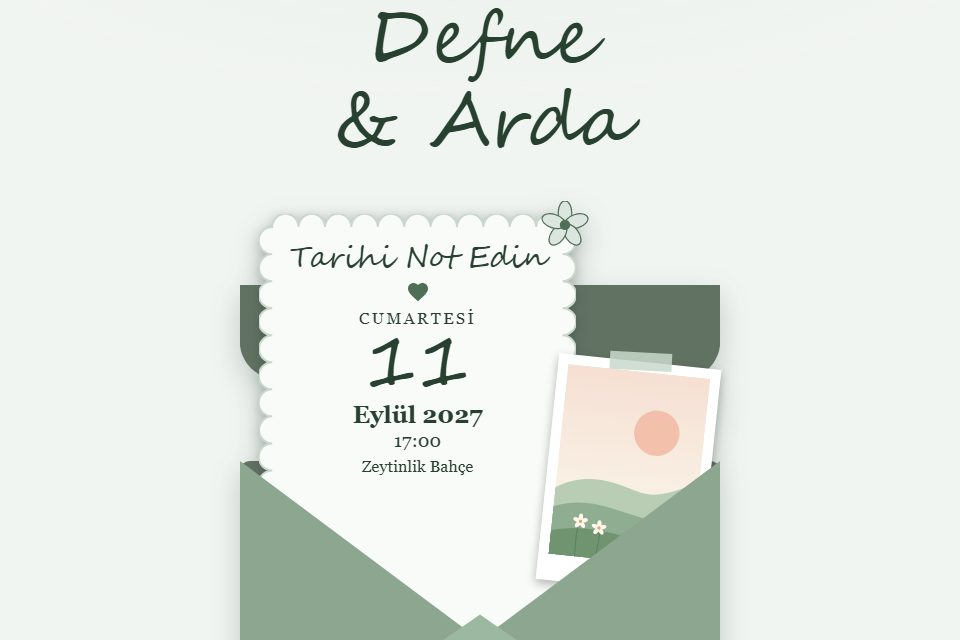
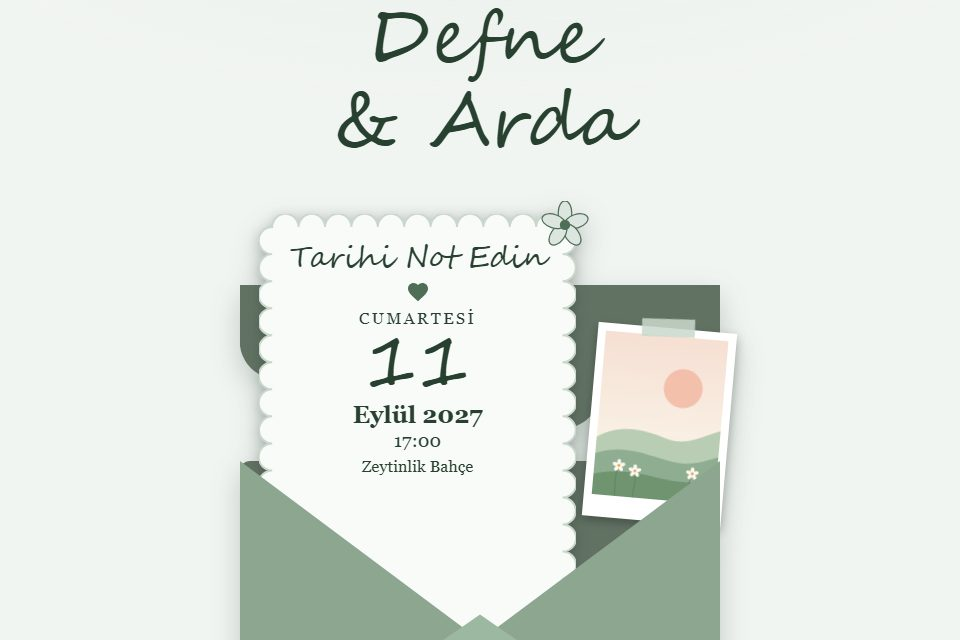
fix(web): use the generated accentColor type and clear the zarf photo print from the card
Drops the local DraftContentWithAccent in favour of the generated DraftContentInput,
and shrinks/offsets the photo print so the Save-the-Date text stays clear at 360-1280px.

Changed region(s): [[0.5625, 0.5, 0.7812, 0.9062], [0.5625, 0.9062, 0.5938, 0.9375]]

diff --git a/src/web/src/features/invitations/draftModel.ts b/src/web/src/features/invitations/draftModel.ts
@@ -1,11 +1,11 @@
 import type {
+  DraftContentInput,
   DraftProgramItemInput,
   InvitationDraftDetails,
   InvitationContactInput,
   InvitationFaqInput,
   InvitationTransportStopInput,
 } from '../../api/generated/client'
-import type { DraftContentWithAccent } from '../templates/rendering/zarfAccent'
 
 export const eventTypes = [
   { value: 'dugun', label: 'Düğün' },
@@ -58,7 +58,7 @@ export const emptyEditableDraft: EditableDraftContent = {
   accentColor: '',
 }
 
-export function toEditableDraft(content: DraftContentWithAccent): EditableDraftContent {
+export function toEditableDraft(content: DraftContentInput): EditableDraftContent {
   const programItems = (content.programItems ?? []).filter(
     (item): item is DraftProgramItemInput => item !== null,
   )
@@ -82,7 +82,7 @@ export function toEditableDraft(content: DraftContentWithAccent): EditableDraftC
   }
 }
 
-export function toDraftContent(content: EditableDraftContent): DraftContentWithAccent {
+export function toDraftContent(content: EditableDraftContent): DraftContentInput {
   const hasVenue = Boolean(content.venueName.trim() || content.venueAddress.trim() || content.mapUrl.trim())
   const hasProgram = Boolean(
     content.programTitle.trim() || content.programDescription.trim() || content.programStartsAtLocal,

diff --git a/src/web/src/features/templates/rendering/zarf.css b/src/web/src/features/templates/rendering/zarf.css
@@ -150,14 +150,14 @@
 .zarf__photo {
   position: absolute;
   inset-block-start: 34%;
-  inset-inline-end: 2%;
+  inset-inline-end: -2%;
   z-index: 2;
-  width: 34%;
+  width: 29%;
   margin: 0;
   transform: rotate(0deg);
   transition: transform 0.9s cubic-bezier(0.3, 0.7, 0.2, 1) 0.6s;
 }
-.zarf--open .zarf__photo { transform: translateY(-92%) rotate(6deg); }
+.zarf--open .zarf__photo { transform: translateY(-125%) rotate(5deg); }
 .zarf__photo-frame {
   position: relative;
   padding: 6% 6% 16%;
@@ -175,7 +175,7 @@
   content: "";
   transform: translateX(-50%) rotate(-3deg);
 }
-.zarf__photo-frame img, .zarf__photo-placeholder { display: block; width: 100%; aspect-ratio: 3 / 4; object-fit: cover; }
+.zarf__photo-frame img, .zarf__photo-placeholder { display: block; width: 100%; height: auto; aspect-ratio: 3 / 4; object-fit: cover; }
 .zarf__photo-placeholder { display: grid; place-items: center; background: linear-gradient(160deg, color-mix(in srgb, var(--z-base) 45%, #fff), color-mix(in srgb, var(--z-base) 85%, #fff)); }
 .zarf__photo-placeholder svg { width: 38%; fill: color-mix(in srgb, var(--z-seal) 70%, #fff); }
 

diff --git a/src/web/src/features/templates/rendering/model.ts b/src/web/src/features/templates/rendering/model.ts
@@ -1,4 +1,5 @@
-import { resolveZarfAccent, type DraftContentWithAccent, type ZarfAccentKey } from './zarfAccent'
+import type { DraftContentInput } from '../../../api/generated/client'
+import { resolveZarfAccent, type ZarfAccentKey } from './zarfAccent'
 
 export interface InvitationRenderVenue {
   name: string
@@ -39,7 +40,7 @@ export function templateRendersCoverInline(templateKey: string): boolean {
   return templateKey === 'zarf-davetiye'
 }
 
-export function normalizeDraftContent(content: DraftContentWithAccent): NormalizedInvitationRenderModel {
+export function normalizeDraftContent(content: DraftContentInput): NormalizedInvitationRenderModel {
   const hostNames = (content.hostNames ?? []).map(value => value.trim()).filter(Boolean)
   const venueName = content.venue?.name?.trim()
 

diff --git a/src/web/src/features/invitations/DevicePreview.tsx b/src/web/src/features/invitations/DevicePreview.tsx
@@ -3,7 +3,7 @@ import { useTranslation } from 'react-i18next'
 
 import { InvitationRenderer } from '../templates/rendering/InvitationRenderer'
 import { normalizeDraftContent } from '../templates/rendering/model'
-import type { DraftContentWithAccent } from '../templates/rendering/zarfAccent'
+import type { DraftContentInput } from '../../api/generated/client'
 
 type PreviewDevice = 'phone' | 'tablet' | 'desktop'
 
@@ -11,7 +11,7 @@ interface DevicePreviewProps {
   invitationId: string
   templateKey: string | null
   rendererVersion: number | null
-  content: DraftContentWithAccent
+  content: DraftContentInput
 }
 
 export function DevicePreview({ invitationId, templateKey, rendererVersion, content }: DevicePreviewProps) {

diff --git a/src/web/src/features/templates/rendering/zarfAccent.ts b/src/web/src/features/templates/rendering/zarfAccent.ts
@@ -1,5 +1,3 @@
-import type { DraftContentInput } from '../../../api/generated/client'
-
 export const zarfTemplateKey = 'zarf-davetiye'
 
 /**
@@ -36,9 +34,3 @@ export function resolveZarfAccent(value: string | null | undefined): ZarfAccentK
   const key = value?.trim()
   return (zarfAccentKeys as readonly string[]).includes(key ?? '') ? key as ZarfAccentKey : defaultZarfAccent
 }
-
-/**
- * Draft content with the zarf `accentColor` field. Local extension until the generated client
- * (owned by the backend contract) exposes the field itself.
- */
-export type DraftContentWithAccent = DraftContentInput & { accentColor?: string | null }

diff --git a/src/web/src/features/templates/rendering/demoData.ts b/src/web/src/features/templates/rendering/demoData.ts
@@ -1,7 +1,7 @@
 import { normalizeDraftContent, type NormalizedInvitationRenderModel } from './model'
-import type { DraftContentWithAccent } from './zarfAccent'
+import type { DraftContentInput } from '../../../api/generated/client'
 
-const demos: Record<string, DraftContentWithAccent> = {
+const demos: Record<string, DraftContentInput> = {
   'zarf-davetiye': {
     eventType: 'dugun', headline: 'Defne & Arda', hostNames: ['Defne', 'Arda'],
     message: 'Bu mektubu bir davetle kapatıyoruz: en güzel günümüzde yanımızda olun.',
